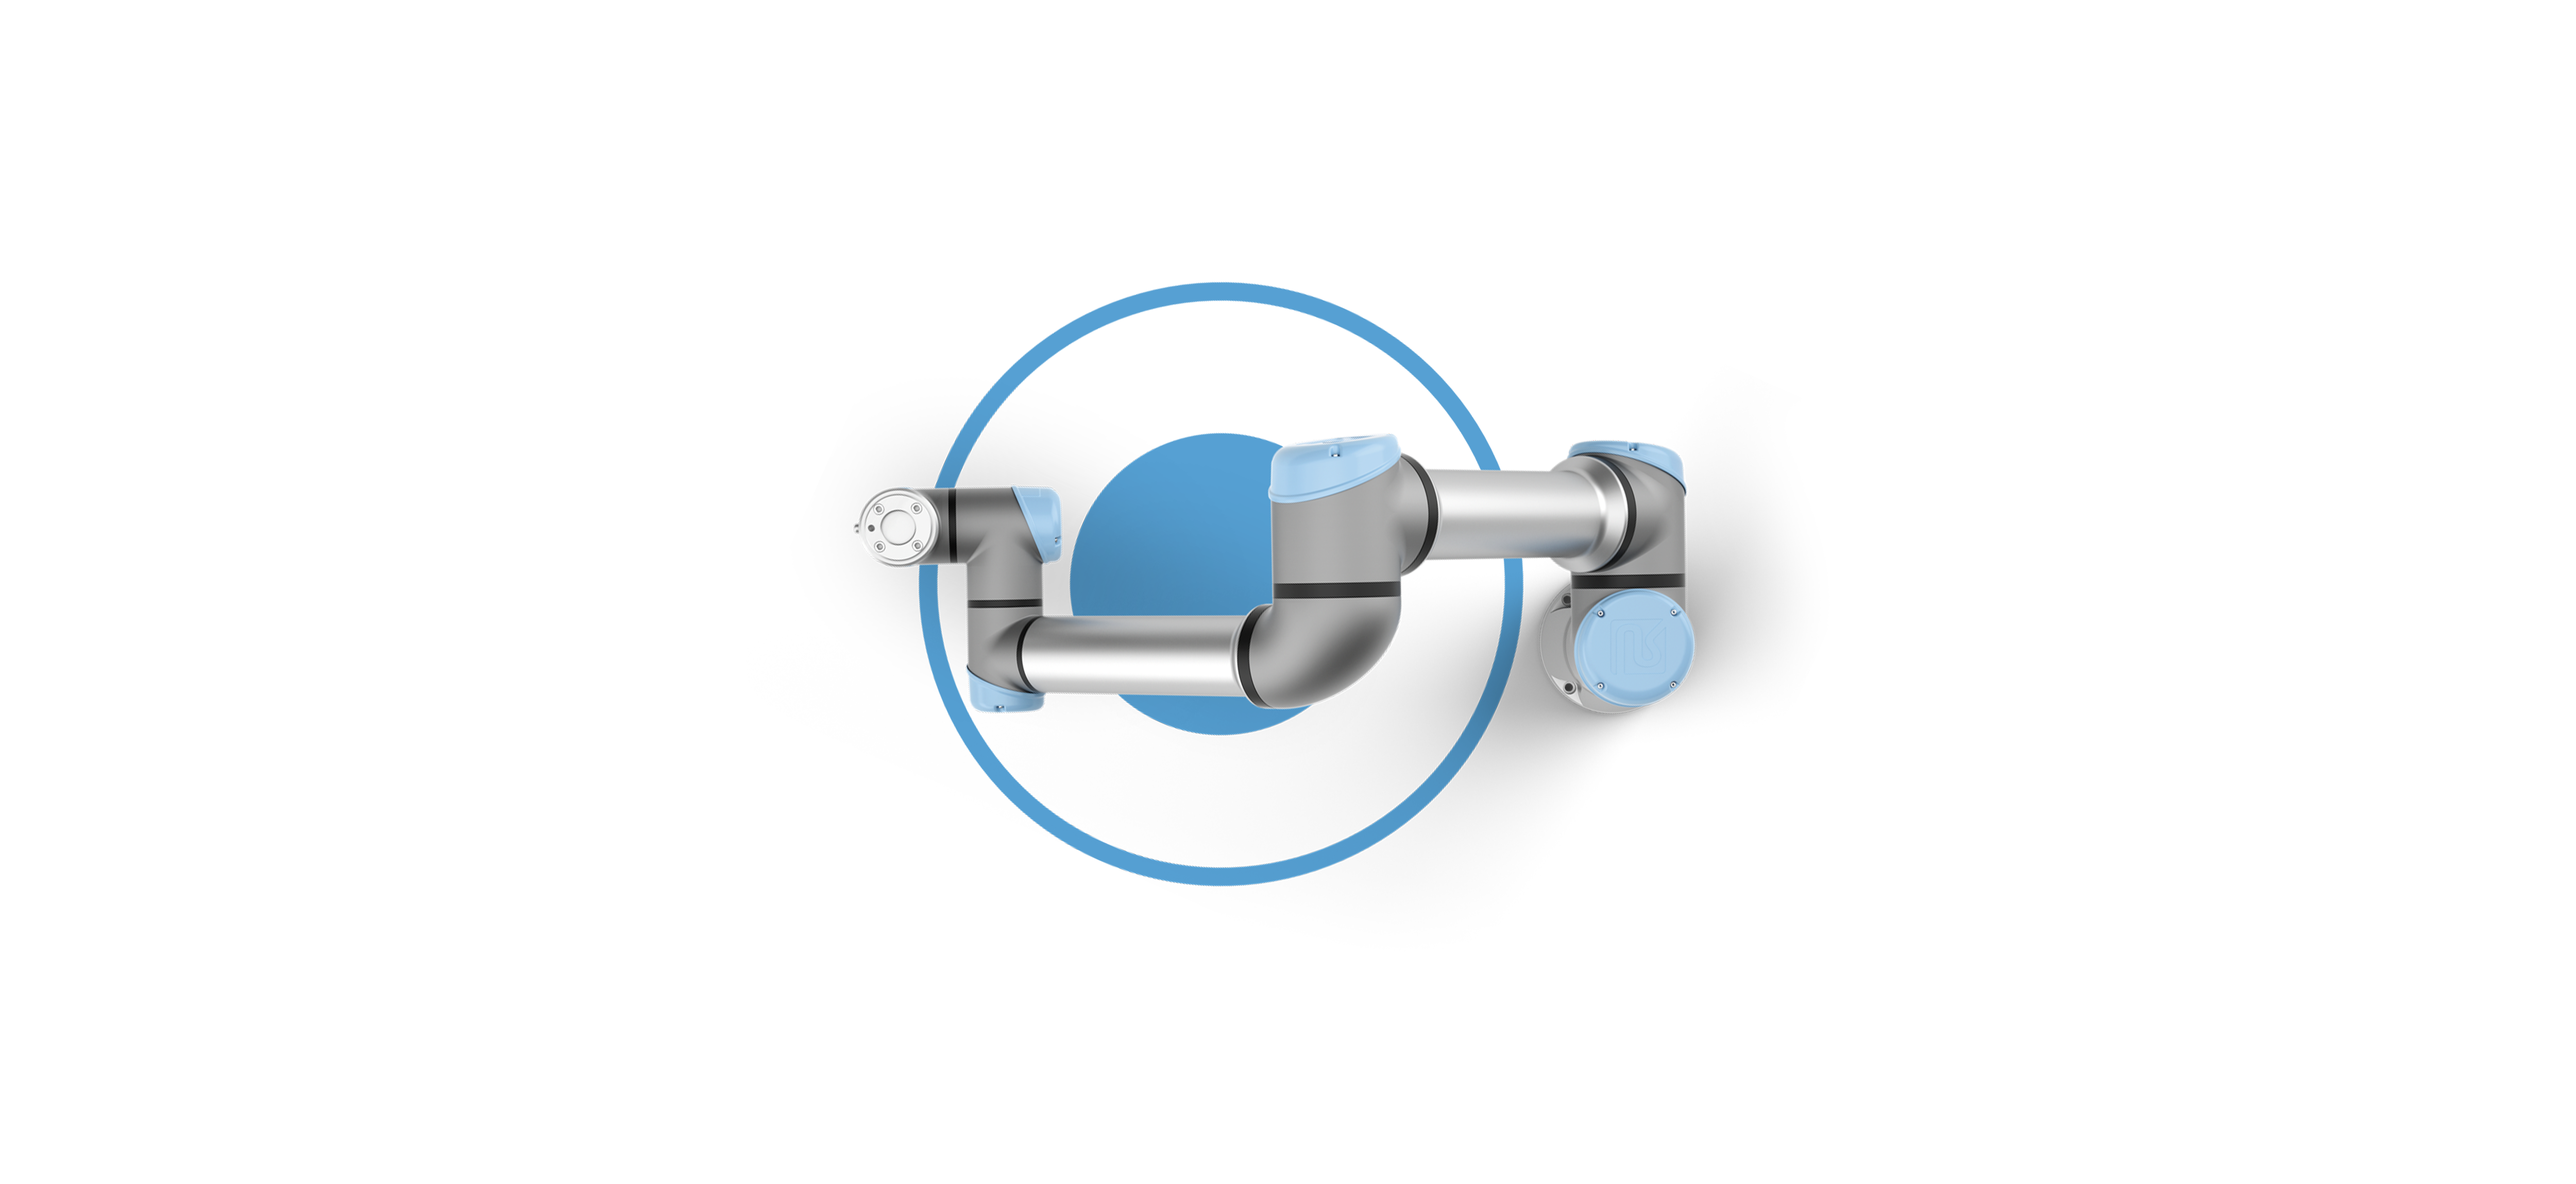
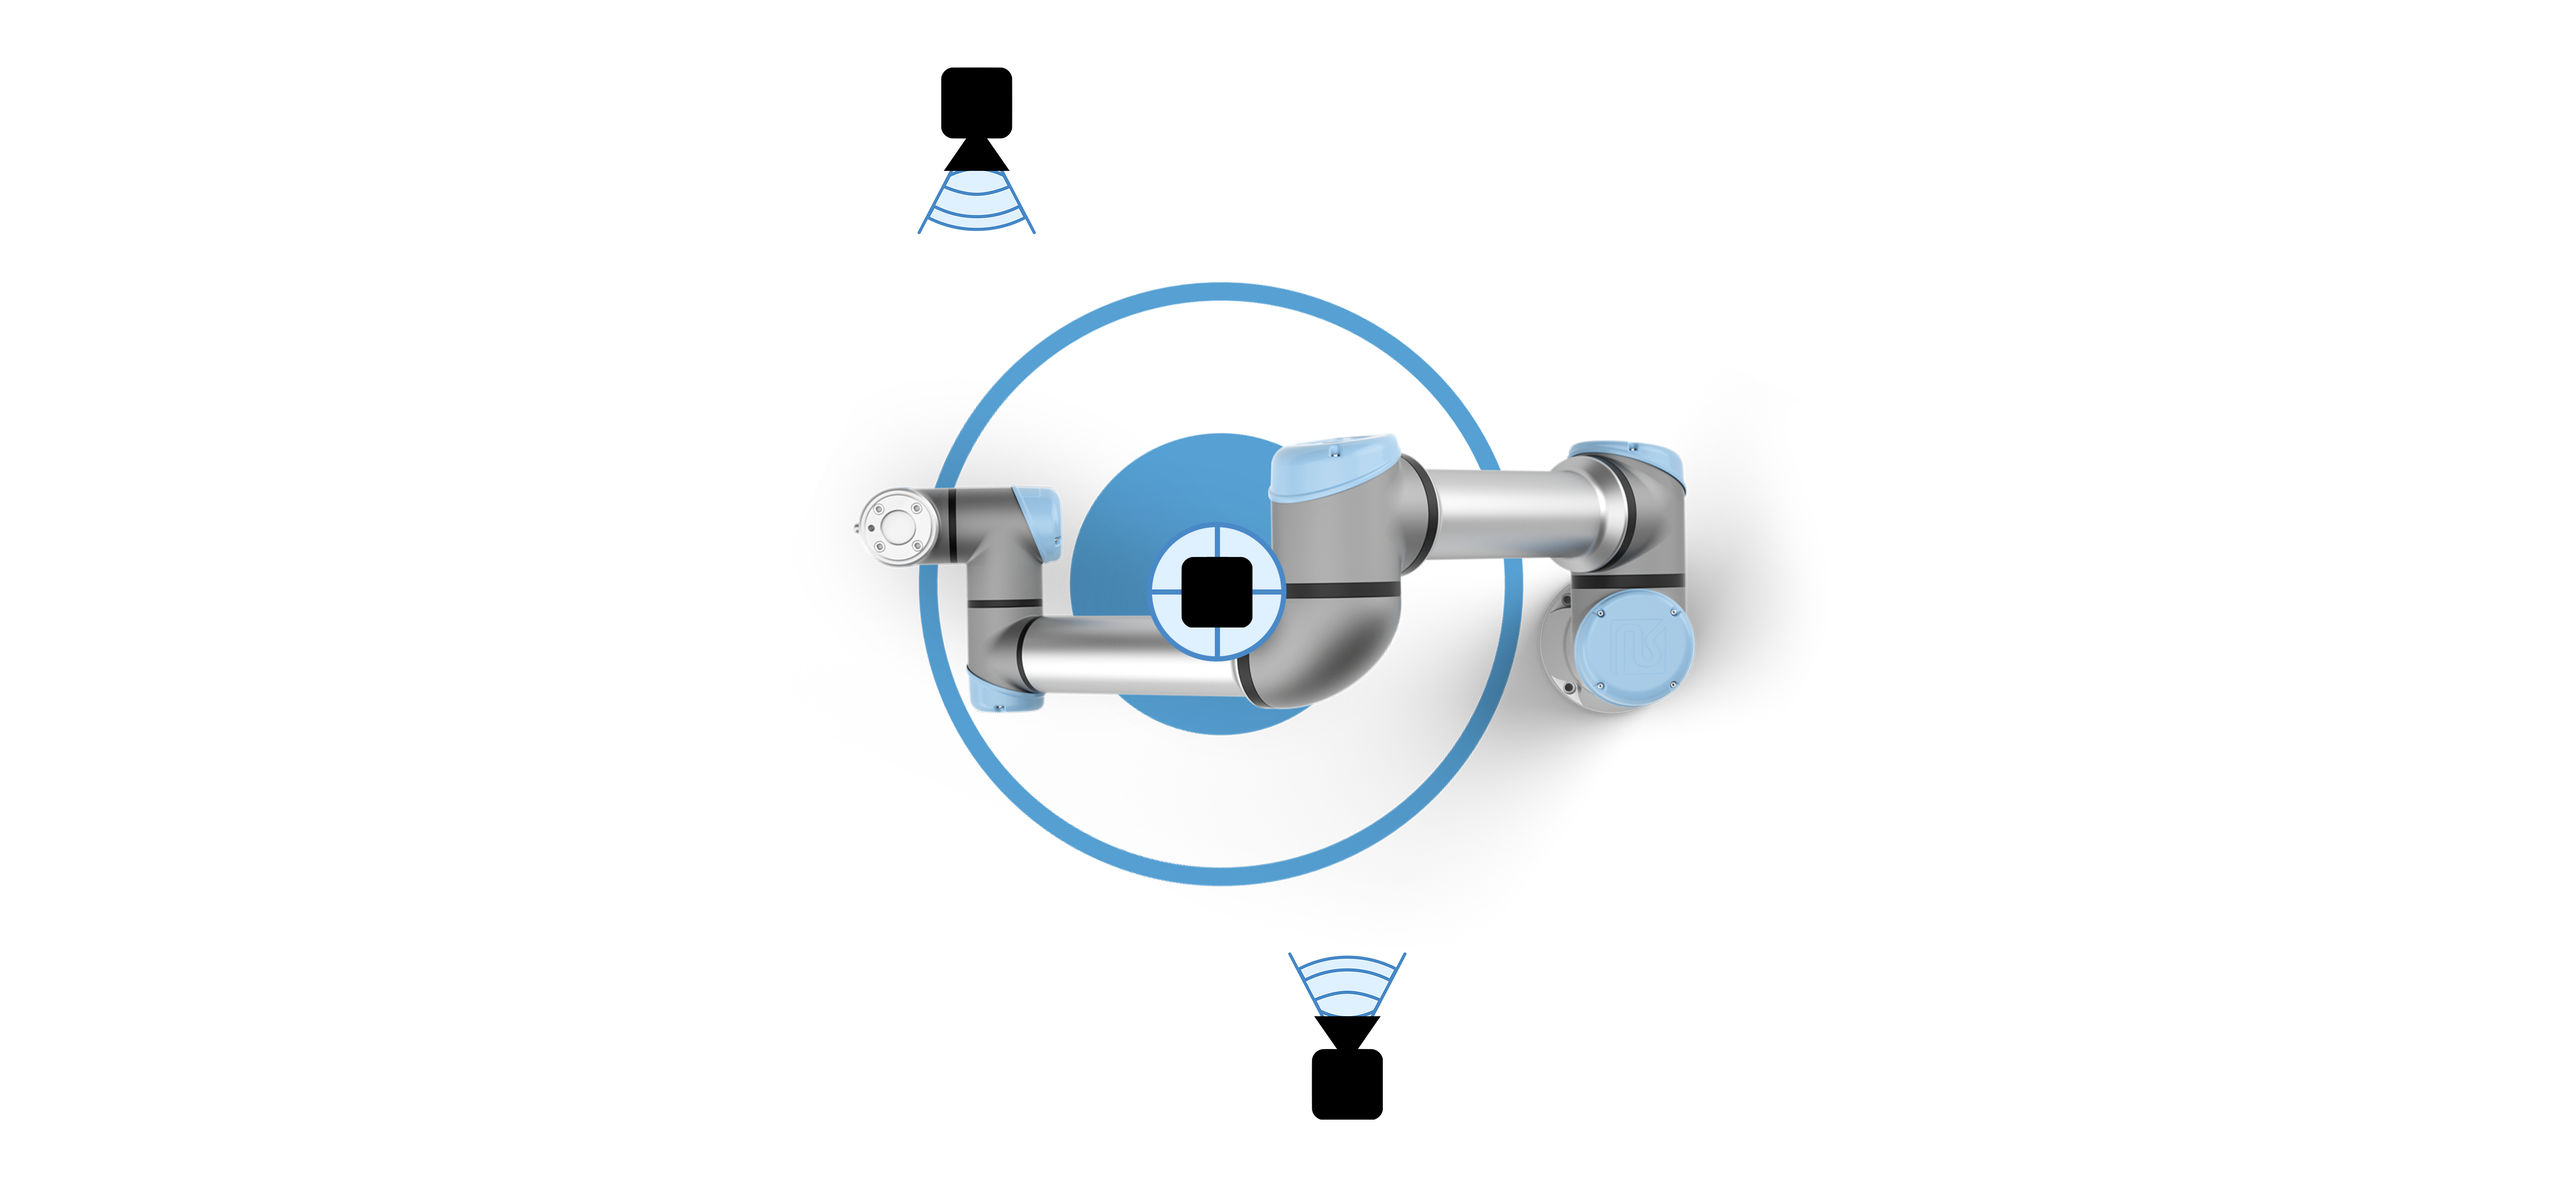
Home layout with button ok and adjustements (clickable image wip)

Changed region(s): [[0.4992, 0.8026, 0.5616, 0.957], [0.3432, 0.0617, 0.4056, 0.2161], [0.4368, 0.4322, 0.4992, 0.5557]]

diff --git a/Include/templates/home.html b/Include/templates/home.html
@@ -17,13 +17,63 @@
 <!--<div class="container-fluid">-->
 <!--    <div class="row">-->
 <div class="col-lg-12">
-    <h1 class="hint-home">Click on a point to see the video.</h1>
-    <map name="map">
-        <area shape="circle" coords="300,300,100" alt="test" href="{{ url_for('cams') }}">
-    </map>
-    <img class="img-home center" src="{{ url_for('static',filename='robot.png') }}" usemap="#map">
+<!--    <h1 class="hint-home">Click on a camera to see the video.</h1>-->
 
+    <div align="center">
+
+        {% for cam in cameras %}
+        {% if cam.status=='active' %}
+        <a href="{{ url_for('cams') }}" class="btn btn-success">{{cam.name}}</a>
+        {% else %}
+        <a href="{{ url_for('cams') }}" class="btn btn-danger">{{cam.name}}</a>
+        {% endif %}
+        {% endfor %}
+    </div>
+
+    <hr>
+
+    <img class="img-home center" src="{{ url_for('static',filename='robot_text.png') }}" usemap="#map">
+
+    <!--  Image cliquable (WIP)  -->
+    <!--    <a href="{{ url_for('cams') }}">-->
+    <!--        <div style="position: absolute; left: 39%; top: 17.5%; width: 2.6%; height: 5.5%; background-color: none; border-radius:10px;border: 5px solid rgb(256,0,0);"></div>-->
+    <!--    </a>-->
+    <!--    <a href="{{ url_for('cams') }}">-->
+    <!--        <div style="position: absolute; left: 46.5%; top: 48.5%; width: 2.6%; height: 5.5%; background-color: none;border-radius:10px;border: 5px solid rgb(256,0,0);"></div>-->
+    <!--    </a>-->
+    <!--    <a href="{{ url_for('cams') }}">-->
+    <!--        <div style="position: absolute; left: 50.5%; top: 79.5%; width: 2.6%; height: 5.5%; background-color: none;border-radius:10px;border: 5px solid rgb(0,256,0);"></div>-->
+    <!--    </a>-->
 </div>
+<!--        <map name="map">-->
+<!--    &lt;!&ndash;        <area shape="circle" coords="650,75,50" alt="test" href="{{ url_for('cams') }}">&ndash;&gt;-->
+<!--    &lt;!&ndash;        <area shape="circle" coords="810,390,50" alt="test" href="{{ url_for('all') }}">&ndash;&gt;-->
+<!--    &lt;!&ndash;        <area shape="circle" coords="890,710,50" alt="test" href="{{ url_for('settings') }}">&ndash;&gt;-->
+
+<!--            <area shape="circle" coords="33%,10%,5%" alt="test" href="{{ url_for('cams') }}">-->
+<!--            <area shape="circle" coords="42%,52%,5%" alt="test" href="{{ url_for('all') }}">-->
+<!--            <area shape="circle" coords="46%,96%,5%" alt="test" href="{{ url_for('settings') }}">-->
+<!--        </map>-->
+
+
+<!--    <div style="position: relative;">-->
+<!--        <img src="{{ url_for('static',filename='robot.png') }}" style="width: 100%; height: auto;">-->
+<!--        <a href="/link1">-->
+<!--            <div style="position: absolute; left: 15%; top: 20%; width: 12%; height: 8%; background-color: rgba(0, 0, 0, .25);"></div>-->
+<!--        </a>-->
+<!--        <a href="/link2">-->
+<!--            <div style="position: absolute; left: 52%; top: 38%; width: 14%; height: 20%; background-color: rgba(0, 0, 0, .25);"></div>-->
+<!--        </a>-->
+<!--    </div>-->
+
+
+<!--    <span id="cam1" class="cam1 dot cam-inactive"></span>-->
+
+<!--    <span id="cam2" class="dot cam-active"></span>-->
+
+<!--    <span id="cam3" class="dot cam-inactive"></span>-->
+
+
 <!--    </div>-->
 <!--</div>-->
 

diff --git a/Include/static/main.css b/Include/static/main.css
@@ -175,6 +175,7 @@ h1.hint-home{
     height: 400px;
     /*width: 100%;*/
     justify-content: center;
+    align-content: center;
 }
 
 iframe{
@@ -193,24 +194,29 @@ iframe{
     background-color: none;
 }
 
-/* TESTS */
-/*
-.div-video{
-    position: relative;
-    width: 100%;
-    justify-content: center;
+.col-lg-12 map area:hover {
+  background-color: red;
 }
 
-.div-video iframe{
+#cam1{
     position: absolute;
-    top:0;
-    left:0;
-    width:90%;
-    height:90%;
-    object-fit:cover;
+    left: 39%;
+    top: 17%;
 }
-*/
-/* */
+
+#cam2{
+    position: absolute;
+    left: 42%;
+    top: 52%;
+}
+
+#cam3{
+    position: absolute;
+    left: 46%;
+    top: 96%;
+}
+
+
 
 
 

diff --git a/Include/templates/all.html b/Include/templates/all.html
@@ -24,6 +24,18 @@
         </div>
     </div>
     {% endfor %}
+
+    <div class="col-sm-12 col-md-12 col-lg-6">
+        <div class="cam">
+            <div class="row">
+                <span class="dot cam-active"></span>
+                <h1 class="col-11 cam"></h1>
+            </div>
+            <div class="div-video-all">
+                <img src="{{ url_for('static', filename='robot_text.png') }}">
+            </div>
+        </div>
+    </div>
 </div>
 {% endblock content %}
 

diff --git a/Include/templates/cams.html b/Include/templates/cams.html
@@ -18,7 +18,7 @@
     <div class="position-sticky">
         <div class="list-group list-group-flush mx-3 mt-4" id="cam-list">
             {% for cam in cameras %}
-            <a href="#"
+            <a
                class="list-group-item list-group-item-action py-2 ripple d-flex justify-content-between align-items-center cam-item"
                aria-current="true"
                data-cam='{{ cam | tojson | replace("\"", "\'") }}'

diff --git a/Include/app.py b/Include/app.py
@@ -14,12 +14,12 @@ loggedIn = True;
 admins = {'username': 'admin', 'password': 'admin'}
 
 cameras = [
-    {'name': 'Front view', 'status': 'active', 'src': 'https://www.youtube.com/embed/dQw4w9WgXcQ', 'date': '26/04/2023', 'hour': '14:50:00'},
-    {'name': 'Left view', 'status': 'inactive', 'src': 'static/video.mp4', 'date': '26/04/2023', 'hour': '14:50:00'},
-    {'name': 'Right view', 'status': 'active', 'src': 'static/video.mp4', 'date': '26/04/2023', 'hour': '14:50:00'},
-    {'name': 'Back view', 'status': 'inactive', 'src': 'static/video.mp4', 'date': '26/04/2023', 'hour': '14:50:00'},
-    {'name': 'Bottom view', 'status': 'inactive', 'src': 'static/video.mp4', 'date': '26/04/2023', 'hour': '14:50:00'},
-    {'name': 'Top view', 'status': 'active', 'src': 'static/video.mp4', 'date': '26/04/2023', 'hour': '14:50:00'}
+    {'name': 'Left view', 'status': 'active', 'src': 'https://www.youtube.com/embed/dQw4w9WgXcQ', 'date': '26/04/2023', 'hour': '14:50:00'},
+    {'name': 'Top view', 'status': 'inactive', 'src': 'static/video.mp4', 'date': '26/04/2023', 'hour': '14:50:00'},
+    {'name': 'Right view', 'status': 'active', 'src': 'static/video.mp4', 'date': '26/04/2023', 'hour': '14:50:00'}
+    # {'name': 'Back view', 'status': 'inactive', 'src': 'static/video.mp4', 'date': '26/04/2023', 'hour': '14:50:00'},
+    # {'name': 'Bottom view', 'status': 'inactive', 'src': 'static/video.mp4', 'date': '26/04/2023', 'hour': '14:50:00'},
+    # {'name': 'Top view', 'status': 'active', 'src': 'static/video.mp4', 'date': '26/04/2023', 'hour': '14:50:00'}
 ]
 
 @app.route("/", methods=['GET', 'POST'])
@@ -40,7 +40,8 @@ def home():
         return render_template("home.html",
                                title="Home",
                                loggedIn=loggedIn,
-                               activetab='home')
+                               activetab='home',
+                               cameras = cameras)
 
 
 @app.route("/cams")
